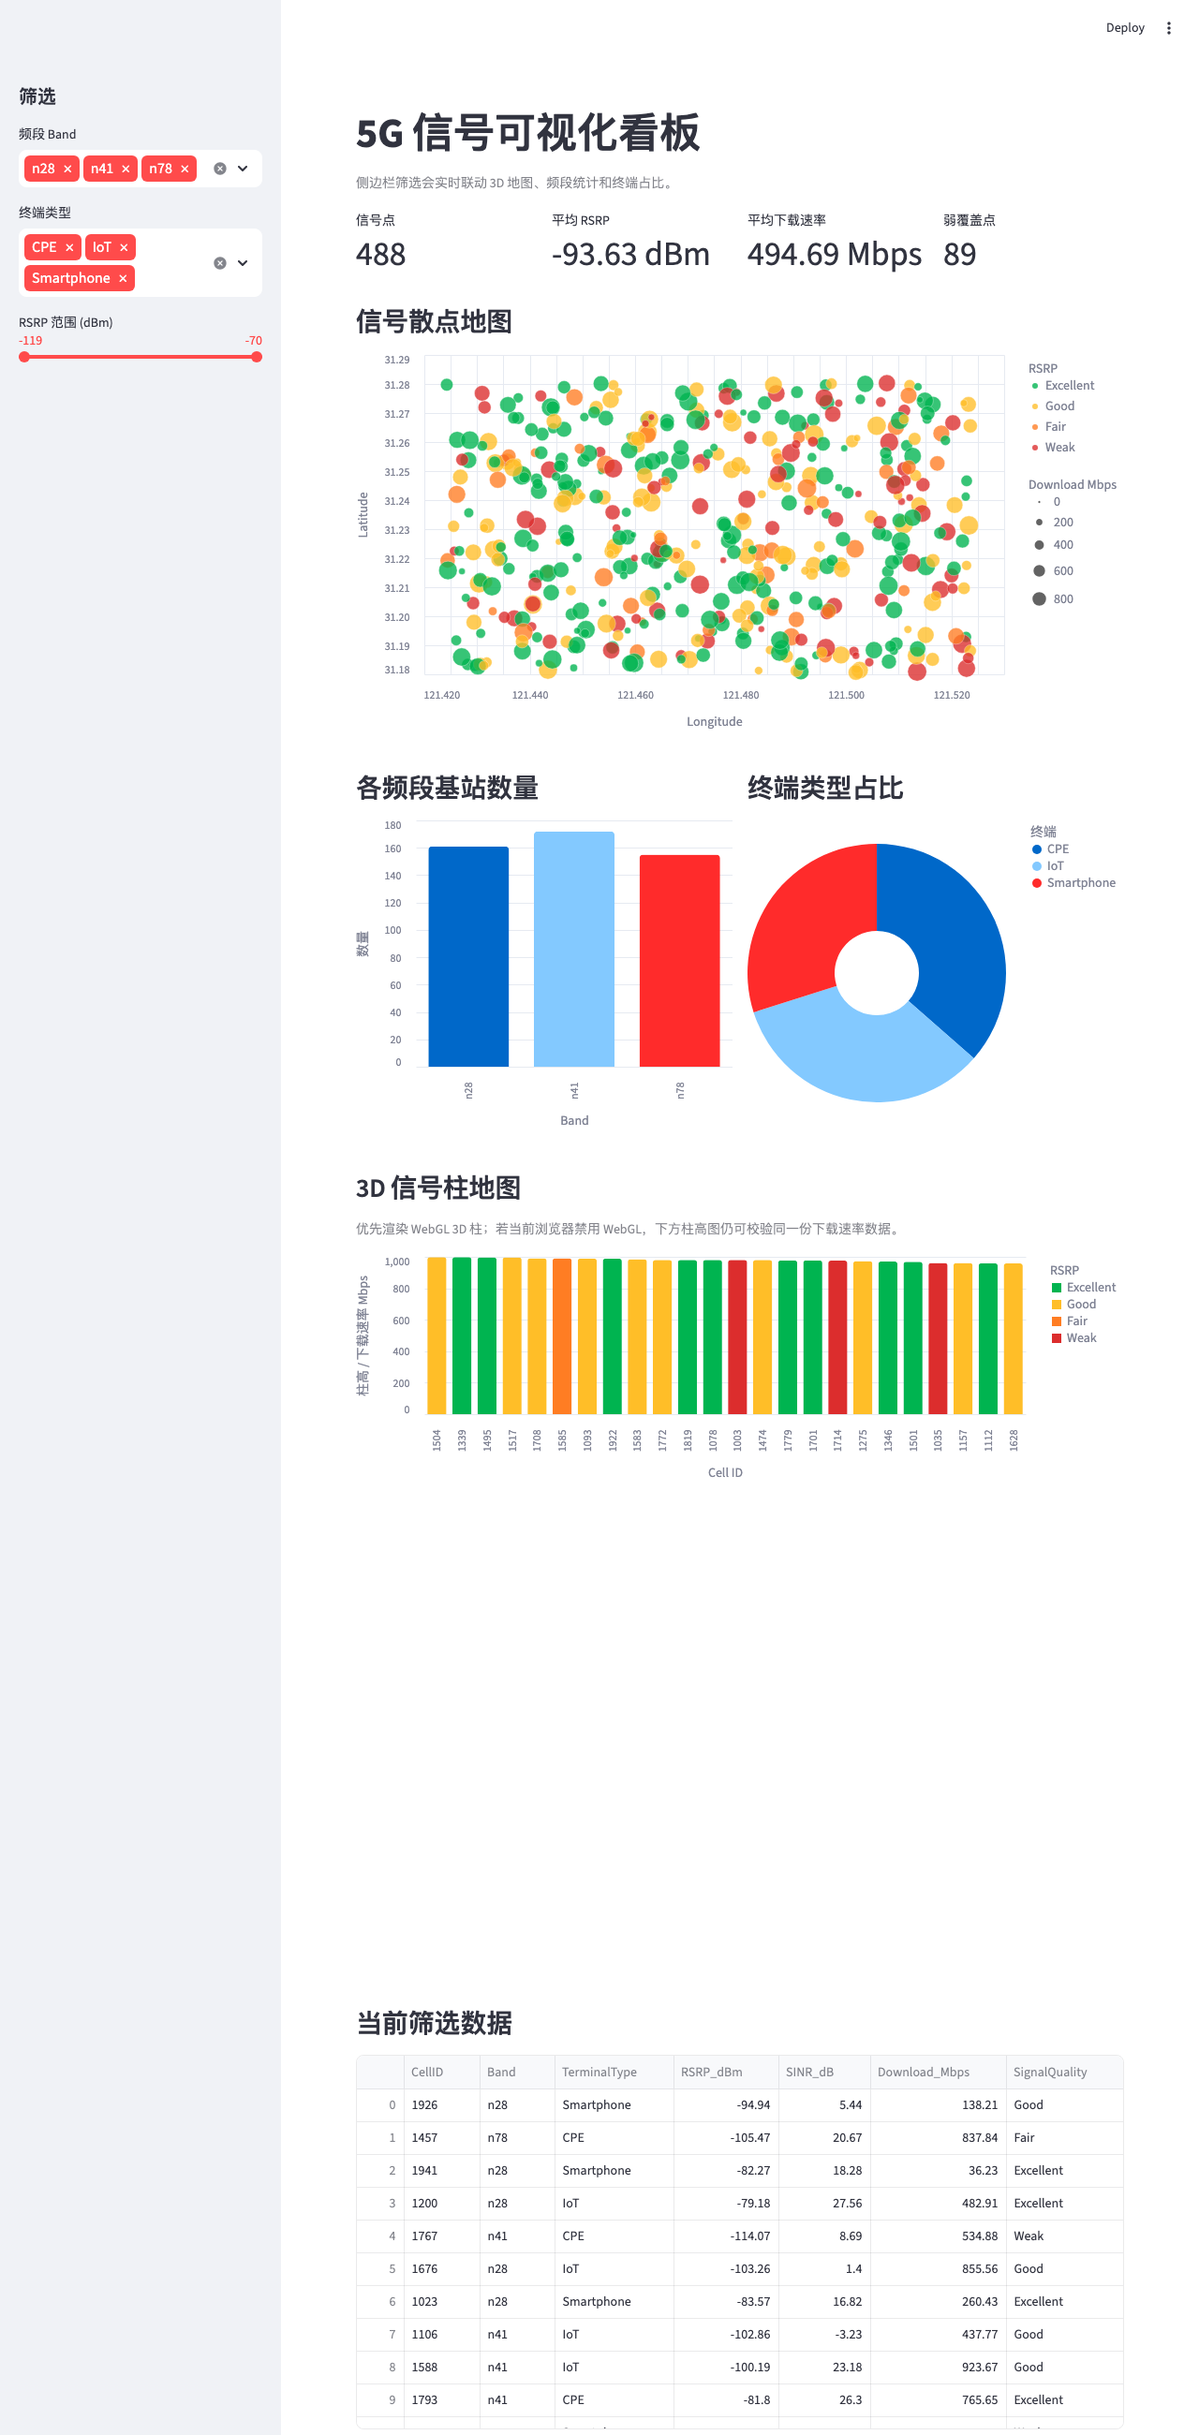
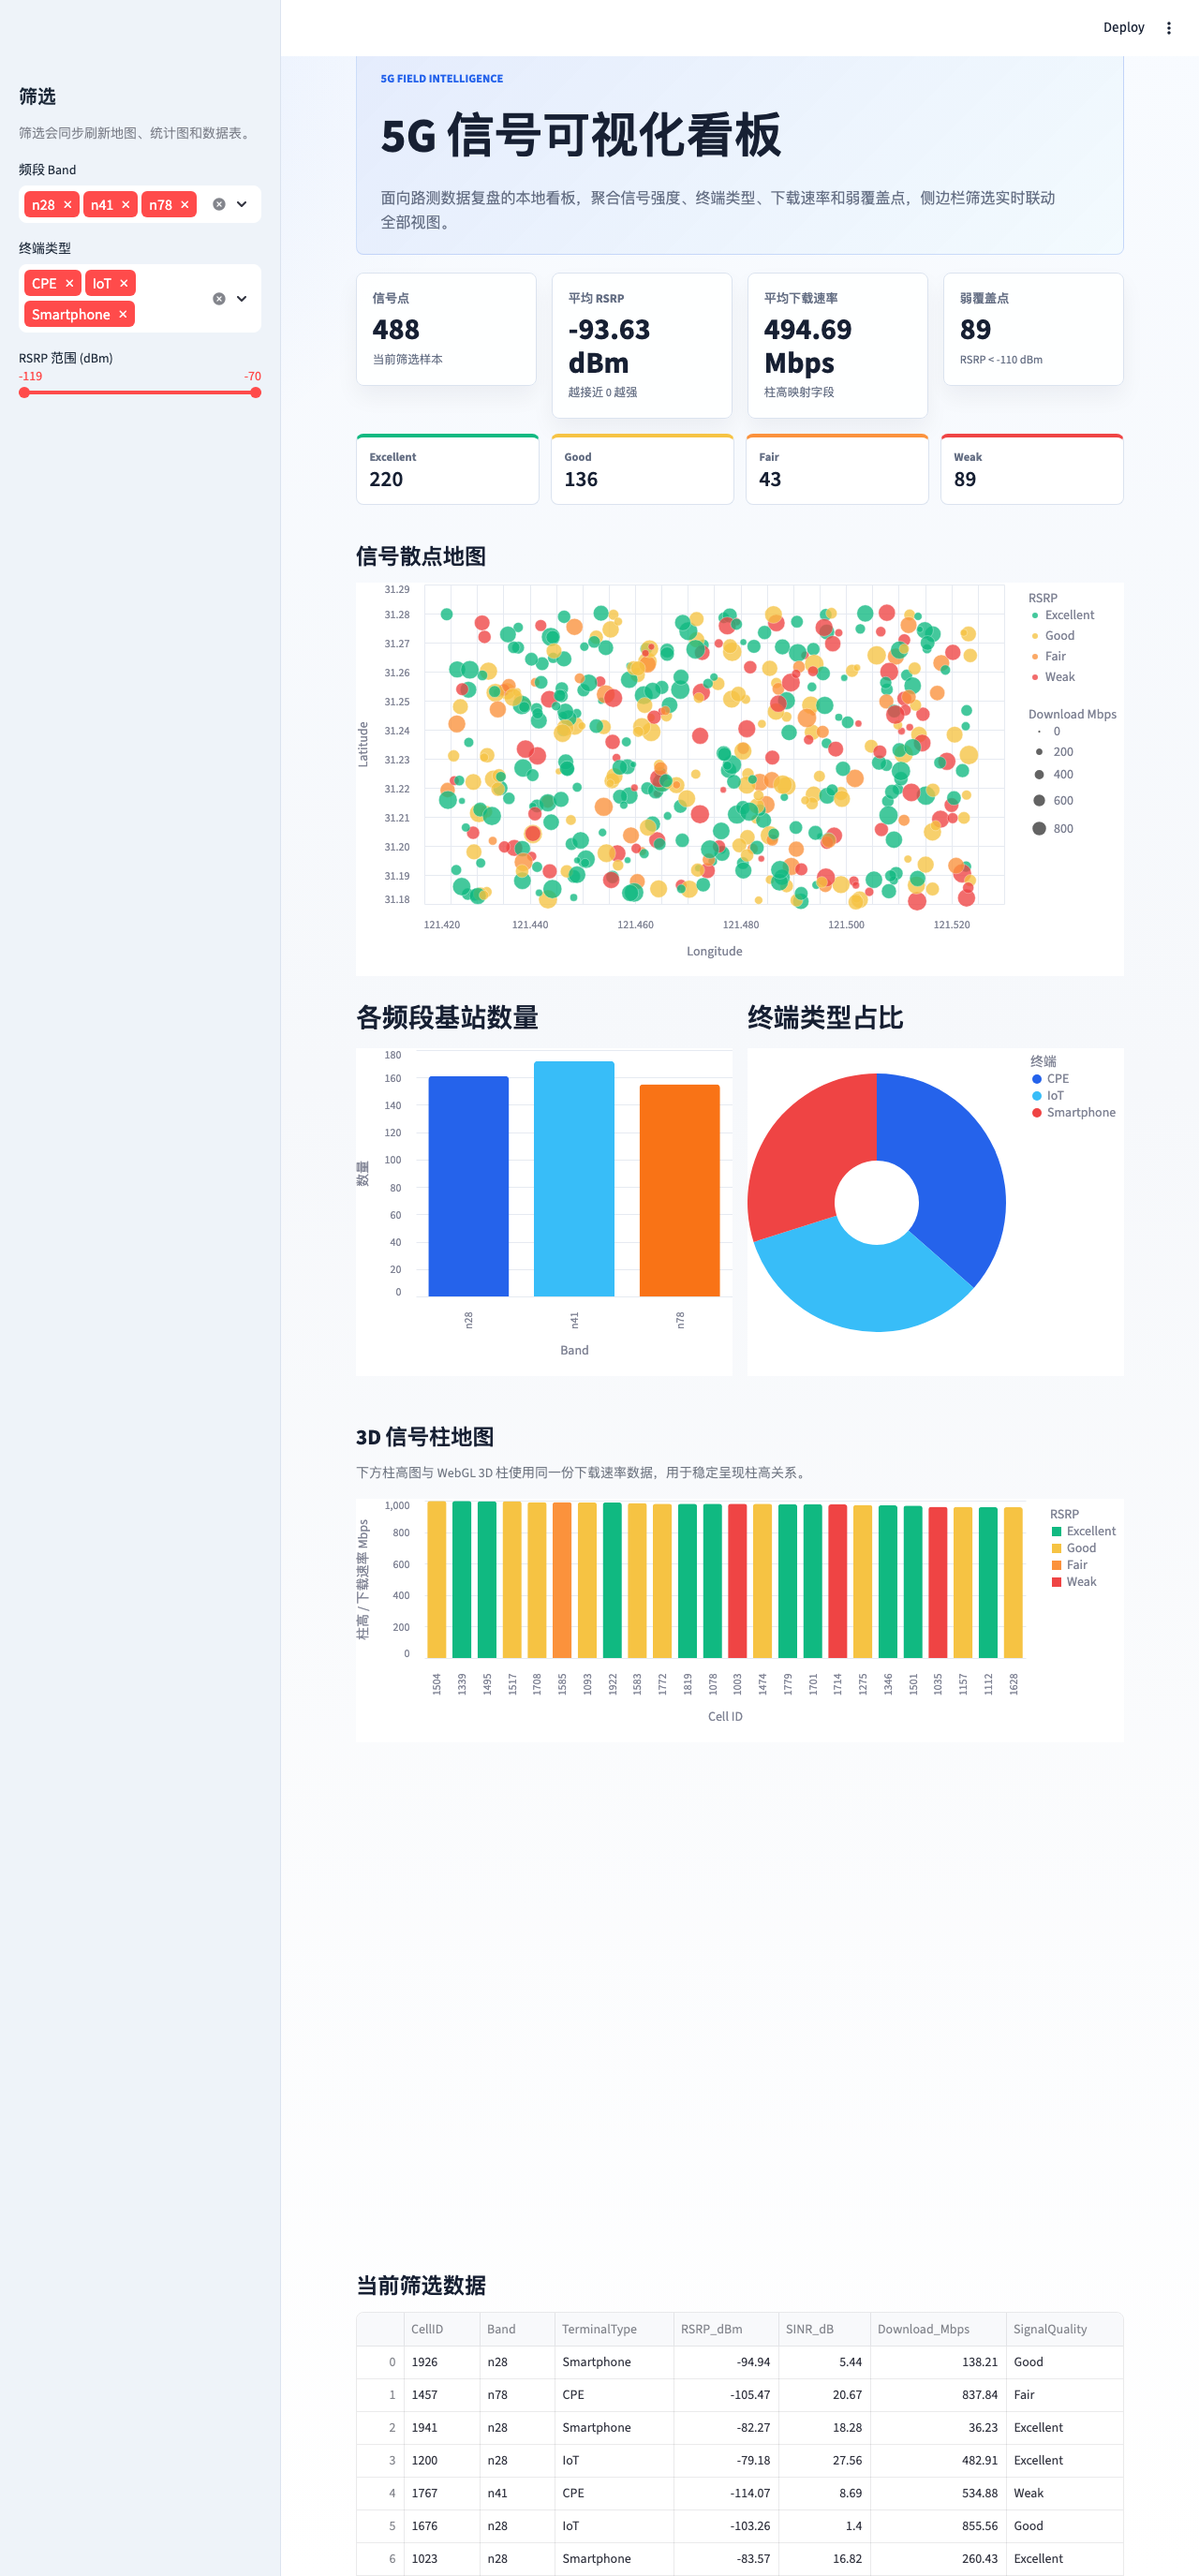
Polish 5G dashboard UI

diff --git a/app.py b/app.py
@@ -29,6 +29,173 @@ DISPLAY_COLUMNS = [
     "SignalQuality",
 ]
 
+QUALITY_DOMAIN = ["Excellent", "Good", "Fair", "Weak"]
+QUALITY_RANGE = ["#10b981", "#f6c343", "#fb923c", "#ef4444"]
+BAND_RANGE = ["#2563eb", "#38bdf8", "#f97316", "#7c3aed", "#14b8a6"]
+TERMINAL_RANGE = ["#2563eb", "#38bdf8", "#ef4444", "#10b981", "#a855f7"]
+
+APP_CSS = """
+<style>
+@import url('https://fonts.googleapis.com/css2?family=Fira+Sans:wght@400;500;600;700&display=swap');
+
+:root {
+    --bg: #f6f8fb;
+    --panel: #ffffff;
+    --ink: #172033;
+    --muted: #667085;
+    --line: #dbe3ef;
+    --blue: #2563eb;
+    --cyan: #0ea5e9;
+    --amber: #f59e0b;
+    --red: #ef4444;
+}
+
+.stApp {
+    background:
+        radial-gradient(circle at top left, rgba(37, 99, 235, 0.10), transparent 34rem),
+        linear-gradient(180deg, #f8fbff 0%, var(--bg) 42%, #ffffff 100%);
+    color: var(--ink);
+    font-family: "Fira Sans", -apple-system, BlinkMacSystemFont, "Segoe UI", sans-serif;
+}
+
+[data-testid="stSidebar"] {
+    background: #eef3f9;
+    border-right: 1px solid var(--line);
+}
+
+[data-testid="stSidebar"] h2,
+[data-testid="stSidebar"] h3,
+[data-testid="stSidebar"] label {
+    color: #1d2939;
+    font-weight: 700;
+}
+
+.block-container {
+    max-width: 1180px;
+    padding-top: 2.2rem;
+}
+
+.signal-hero {
+    border: 1px solid rgba(37, 99, 235, 0.18);
+    border-radius: 8px;
+    background:
+        linear-gradient(135deg, rgba(37, 99, 235, 0.12), rgba(14, 165, 233, 0.05)),
+        #ffffff;
+    padding: 1.45rem 1.6rem 1.25rem;
+    margin-bottom: 1.2rem;
+}
+
+.signal-eyebrow {
+    color: var(--blue);
+    font-size: 0.78rem;
+    font-weight: 700;
+    letter-spacing: 0;
+    text-transform: uppercase;
+    margin-bottom: 0.25rem;
+}
+
+.signal-hero h1 {
+    color: var(--ink);
+    font-size: clamp(2.15rem, 4vw, 3.25rem);
+    line-height: 1.05;
+    letter-spacing: 0;
+    margin: 0;
+}
+
+.signal-hero p {
+    max-width: 720px;
+    color: var(--muted);
+    font-size: 1rem;
+    margin: 0.65rem 0 0;
+}
+
+.metric-card {
+    min-height: 112px;
+    border: 1px solid var(--line);
+    border-radius: 8px;
+    background: rgba(255, 255, 255, 0.92);
+    padding: 1rem 1.05rem;
+    box-shadow: 0 12px 24px rgba(15, 23, 42, 0.05);
+}
+
+.metric-label {
+    color: var(--muted);
+    font-size: 0.82rem;
+    font-weight: 700;
+    margin-bottom: 0.35rem;
+}
+
+.metric-value {
+    color: var(--ink);
+    font-size: 2rem;
+    font-weight: 700;
+    line-height: 1.1;
+}
+
+.metric-note {
+    color: var(--muted);
+    font-size: 0.78rem;
+    margin-top: 0.35rem;
+}
+
+.section-title {
+    margin-top: 1.9rem;
+    margin-bottom: 0.55rem;
+    color: var(--ink);
+    font-size: 1.45rem;
+    font-weight: 700;
+}
+
+.quality-strip {
+    display: grid;
+    grid-template-columns: repeat(4, minmax(0, 1fr));
+    gap: 0.75rem;
+    margin: 1rem 0 0.4rem;
+}
+
+.quality-pill {
+    border: 1px solid var(--line);
+    border-radius: 8px;
+    background: #ffffff;
+    padding: 0.75rem 0.85rem;
+}
+
+.quality-pill span {
+    display: block;
+    color: var(--muted);
+    font-size: 0.78rem;
+    font-weight: 700;
+}
+
+.quality-pill strong {
+    color: var(--ink);
+    display: block;
+    font-size: 1.45rem;
+    line-height: 1.15;
+}
+
+.quality-excellent { border-top: 4px solid #10b981; }
+.quality-good { border-top: 4px solid #f6c343; }
+.quality-fair { border-top: 4px solid #fb923c; }
+.quality-weak { border-top: 4px solid #ef4444; }
+
+[data-testid="stMetric"] {
+    background: #ffffff;
+    border: 1px solid var(--line);
+    border-radius: 8px;
+    padding: 0.9rem 1rem;
+}
+
+@media (max-width: 760px) {
+    .block-container { padding-top: 3.2rem; }
+    .signal-hero { padding: 1.1rem; }
+    .signal-hero h1 { font-size: 2.25rem; }
+    .quality-strip { grid-template-columns: repeat(2, minmax(0, 1fr)); }
+    .metric-card { min-height: auto; }
+}
+</style>
+"""
+
 
 def classify_signal(rsrp: float) -> str:
     if rsrp > -90:
@@ -124,6 +291,11 @@ def summarize_signal_data(data: pd.DataFrame) -> dict[str, float]:
     }
 
 
+def summarize_quality_counts(data: pd.DataFrame) -> dict[str, int]:
+    counts = data["SignalQuality"].value_counts().to_dict() if not data.empty else {}
+    return {quality: int(counts.get(quality, 0)) for quality in QUALITY_DOMAIN}
+
+
 @st.cache_data
 def load_signal_data(path: str) -> pd.DataFrame:
     try:
@@ -136,6 +308,7 @@ def load_signal_data(path: str) -> pd.DataFrame:
 
 def render_sidebar(data: pd.DataFrame) -> tuple[list[str], list[str], tuple[float, float]]:
     st.sidebar.header("筛选")
+    st.sidebar.caption("筛选会同步刷新地图、统计图和数据表。")
 
     if data.empty:
         st.sidebar.info("当前没有可用信号点，筛选器已使用安全默认值。")
@@ -164,7 +337,7 @@ def render_3d_map(data: pd.DataFrame) -> None:
         st.warning("没有可绘制的经纬度数据。请检查 CSV 是否为空或字段是否缺失。")
         return
 
-    st.caption("优先渲染 WebGL 3D 柱；若当前浏览器禁用 WebGL，下方柱高图仍可校验同一份下载速率数据。")
+    st.caption("下方柱高图与 WebGL 3D 柱使用同一份下载速率数据，用于稳定呈现柱高关系。")
     render_column_fallback(data)
 
     midpoint = [float(data["Longitude"].mean()), float(data["Latitude"].mean())]
@@ -216,7 +389,7 @@ def render_column_fallback(data: pd.DataFrame) -> None:
                 title="RSRP",
                 scale=alt.Scale(
                     domain=["Excellent", "Good", "Fair", "Weak"],
-                    range=["#00b450", "#ffbe28", "#ff7d23", "#dc2d2d"],
+                    range=QUALITY_RANGE,
                 ),
             ),
             tooltip=DISPLAY_COLUMNS,
@@ -247,7 +420,7 @@ def render_signal_scatter_map(data: pd.DataFrame) -> None:
                 title="RSRP",
                 scale=alt.Scale(
                     domain=["Excellent", "Good", "Fair", "Weak"],
-                    range=["#00b450", "#ffbe28", "#ff7d23", "#dc2d2d"],
+                    range=QUALITY_RANGE,
                 ),
             ),
             tooltip=DISPLAY_COLUMNS,
@@ -276,7 +449,11 @@ def render_charts(data: pd.DataFrame) -> None:
             .encode(
                 x=alt.X("Band:N", title="Band"),
                 y=alt.Y("Count:Q", title="数量"),
-                color=alt.Color("Band:N", legend=None),
+                color=alt.Color(
+                    "Band:N",
+                    legend=None,
+                    scale=alt.Scale(range=BAND_RANGE),
+                ),
                 tooltip=["Band", "Count"],
             ),
             width="stretch",
@@ -289,38 +466,101 @@ def render_charts(data: pd.DataFrame) -> None:
             .mark_arc(innerRadius=45)
             .encode(
                 theta=alt.Theta("Count:Q"),
-                color=alt.Color("TerminalType:N", title="终端"),
+                color=alt.Color(
+                    "TerminalType:N",
+                    title="终端",
+                    scale=alt.Scale(range=TERMINAL_RANGE),
+                ),
                 tooltip=["TerminalType", "Count"],
             ),
             width="stretch",
         )
 
 
+def render_page_chrome() -> None:
+    st.markdown(APP_CSS, unsafe_allow_html=True)
+
+
+def render_hero() -> None:
+    st.markdown(
+        """
+        <section class="signal-hero">
+            <div class="signal-eyebrow">5G FIELD INTELLIGENCE</div>
+            <h1>5G 信号可视化看板</h1>
+            <p>面向路测数据复盘的本地看板，聚合信号强度、终端类型、下载速率和弱覆盖点，侧边栏筛选实时联动全部视图。</p>
+        </section>
+        """,
+        unsafe_allow_html=True,
+    )
+
+
+def render_metric_card(label: str, value: str, note: str) -> None:
+    st.markdown(
+        f"""
+        <div class="metric-card">
+            <div class="metric-label">{label}</div>
+            <div class="metric-value">{value}</div>
+            <div class="metric-note">{note}</div>
+        </div>
+        """,
+        unsafe_allow_html=True,
+    )
+
+
+def render_metric_grid(summary: dict[str, float]) -> None:
+    columns = st.columns(4)
+    metrics = [
+        ("信号点", f"{summary['total_points']}", "当前筛选样本"),
+        ("平均 RSRP", f"{summary['avg_rsrp']} dBm", "越接近 0 越强"),
+        ("平均下载速率", f"{summary['avg_download']} Mbps", "柱高映射字段"),
+        ("弱覆盖点", f"{summary['weak_points']}", "RSRP < -110 dBm"),
+    ]
+    for column, metric in zip(columns, metrics):
+        with column:
+            render_metric_card(*metric)
+
+
+def render_quality_strip(counts: dict[str, int]) -> None:
+    st.markdown(
+        f"""
+        <div class="quality-strip">
+            <div class="quality-pill quality-excellent"><span>Excellent</span><strong>{counts['Excellent']}</strong></div>
+            <div class="quality-pill quality-good"><span>Good</span><strong>{counts['Good']}</strong></div>
+            <div class="quality-pill quality-fair"><span>Fair</span><strong>{counts['Fair']}</strong></div>
+            <div class="quality-pill quality-weak"><span>Weak</span><strong>{counts['Weak']}</strong></div>
+        </div>
+        """,
+        unsafe_allow_html=True,
+    )
+
+
+def section_title(title: str) -> None:
+    st.markdown(f'<div class="section-title">{title}</div>', unsafe_allow_html=True)
+
+
 def render_dashboard() -> None:
     st.set_page_config(page_title="5G 信号可视化看板", layout="wide")
-    st.title("5G 信号可视化看板")
-    st.caption("侧边栏筛选会实时联动 3D 地图、频段统计和终端占比。")
+    render_page_chrome()
+    render_hero()
 
     data = load_signal_data(str(DATA_PATH))
     selected_bands, selected_terminals, rsrp_range = render_sidebar(data)
     filtered = filter_signal_data(data, selected_bands, selected_terminals, rsrp_range)
     summary = summarize_signal_data(filtered)
+    quality_counts = summarize_quality_counts(filtered)
 
-    metric_columns = st.columns(4)
-    metric_columns[0].metric("信号点", summary["total_points"])
-    metric_columns[1].metric("平均 RSRP", f"{summary['avg_rsrp']} dBm")
-    metric_columns[2].metric("平均下载速率", f"{summary['avg_download']} Mbps")
-    metric_columns[3].metric("弱覆盖点", summary["weak_points"])
+    render_metric_grid(summary)
+    render_quality_strip(quality_counts)
 
-    st.subheader("信号散点地图")
+    section_title("信号散点地图")
     render_signal_scatter_map(filtered)
 
     render_charts(filtered)
 
-    st.subheader("3D 信号柱地图")
+    section_title("3D 信号柱地图")
     render_3d_map(filtered)
 
-    st.subheader("当前筛选数据")
+    section_title("当前筛选数据")
     st.dataframe(filtered[DISPLAY_COLUMNS] if not filtered.empty else filtered)
 
 

diff --git a/tests/test_dashboard_data.py b/tests/test_dashboard_data.py
@@ -1,6 +1,11 @@
 import pandas as pd
 
-from app import filter_signal_data, prepare_signal_data, summarize_signal_data
+from app import (
+    filter_signal_data,
+    prepare_signal_data,
+    summarize_quality_counts,
+    summarize_signal_data,
+)
 
 
 def test_prepare_signal_data_handles_missing_columns_and_dirty_values():
@@ -60,3 +65,17 @@ def test_filter_signal_data_combines_band_terminal_and_rsrp_filters():
     )
 
     assert filtered["CellID"].tolist() == ["1003"]
+
+
+def test_summarize_quality_counts_returns_all_quality_buckets():
+    raw = pd.DataFrame(
+        {
+            "Latitude": [31.2, 31.3, 31.4, 31.5],
+            "Longitude": [121.4, 121.5, 121.6, 121.7],
+            "RSRP_dBm": [-80, -100, -108, -120],
+        }
+    )
+
+    counts = summarize_quality_counts(prepare_signal_data(raw))
+
+    assert counts == {"Excellent": 1, "Good": 1, "Fair": 1, "Weak": 1}

diff --git a/README.md b/README.md
@@ -7,6 +7,7 @@
 - 读取 CSV 路测数据，并对缺失字段、空 CSV、脏数值做安全降级。
 - 提供经纬度 RSRP 散点地图；在 WebGL 可用时提供 3D 柱状地图，柱高随 `Download_Mbps` 变化，并附同数据源的柱高降级图。
 - 地图颜色按 `RSRP_dBm` 分级：强信号为绿色，弱覆盖为红色。
+- 提供信号质量分布、核心 KPI 卡片和统一的专业数据看板视觉样式。
 - 侧边栏支持按频段、终端类型、RSRP 范围联动筛选。
 - 展示信号点数量、平均 RSRP、平均下载速率、弱覆盖点数量。
 - 展示各频段基站数量和终端类型占比。
